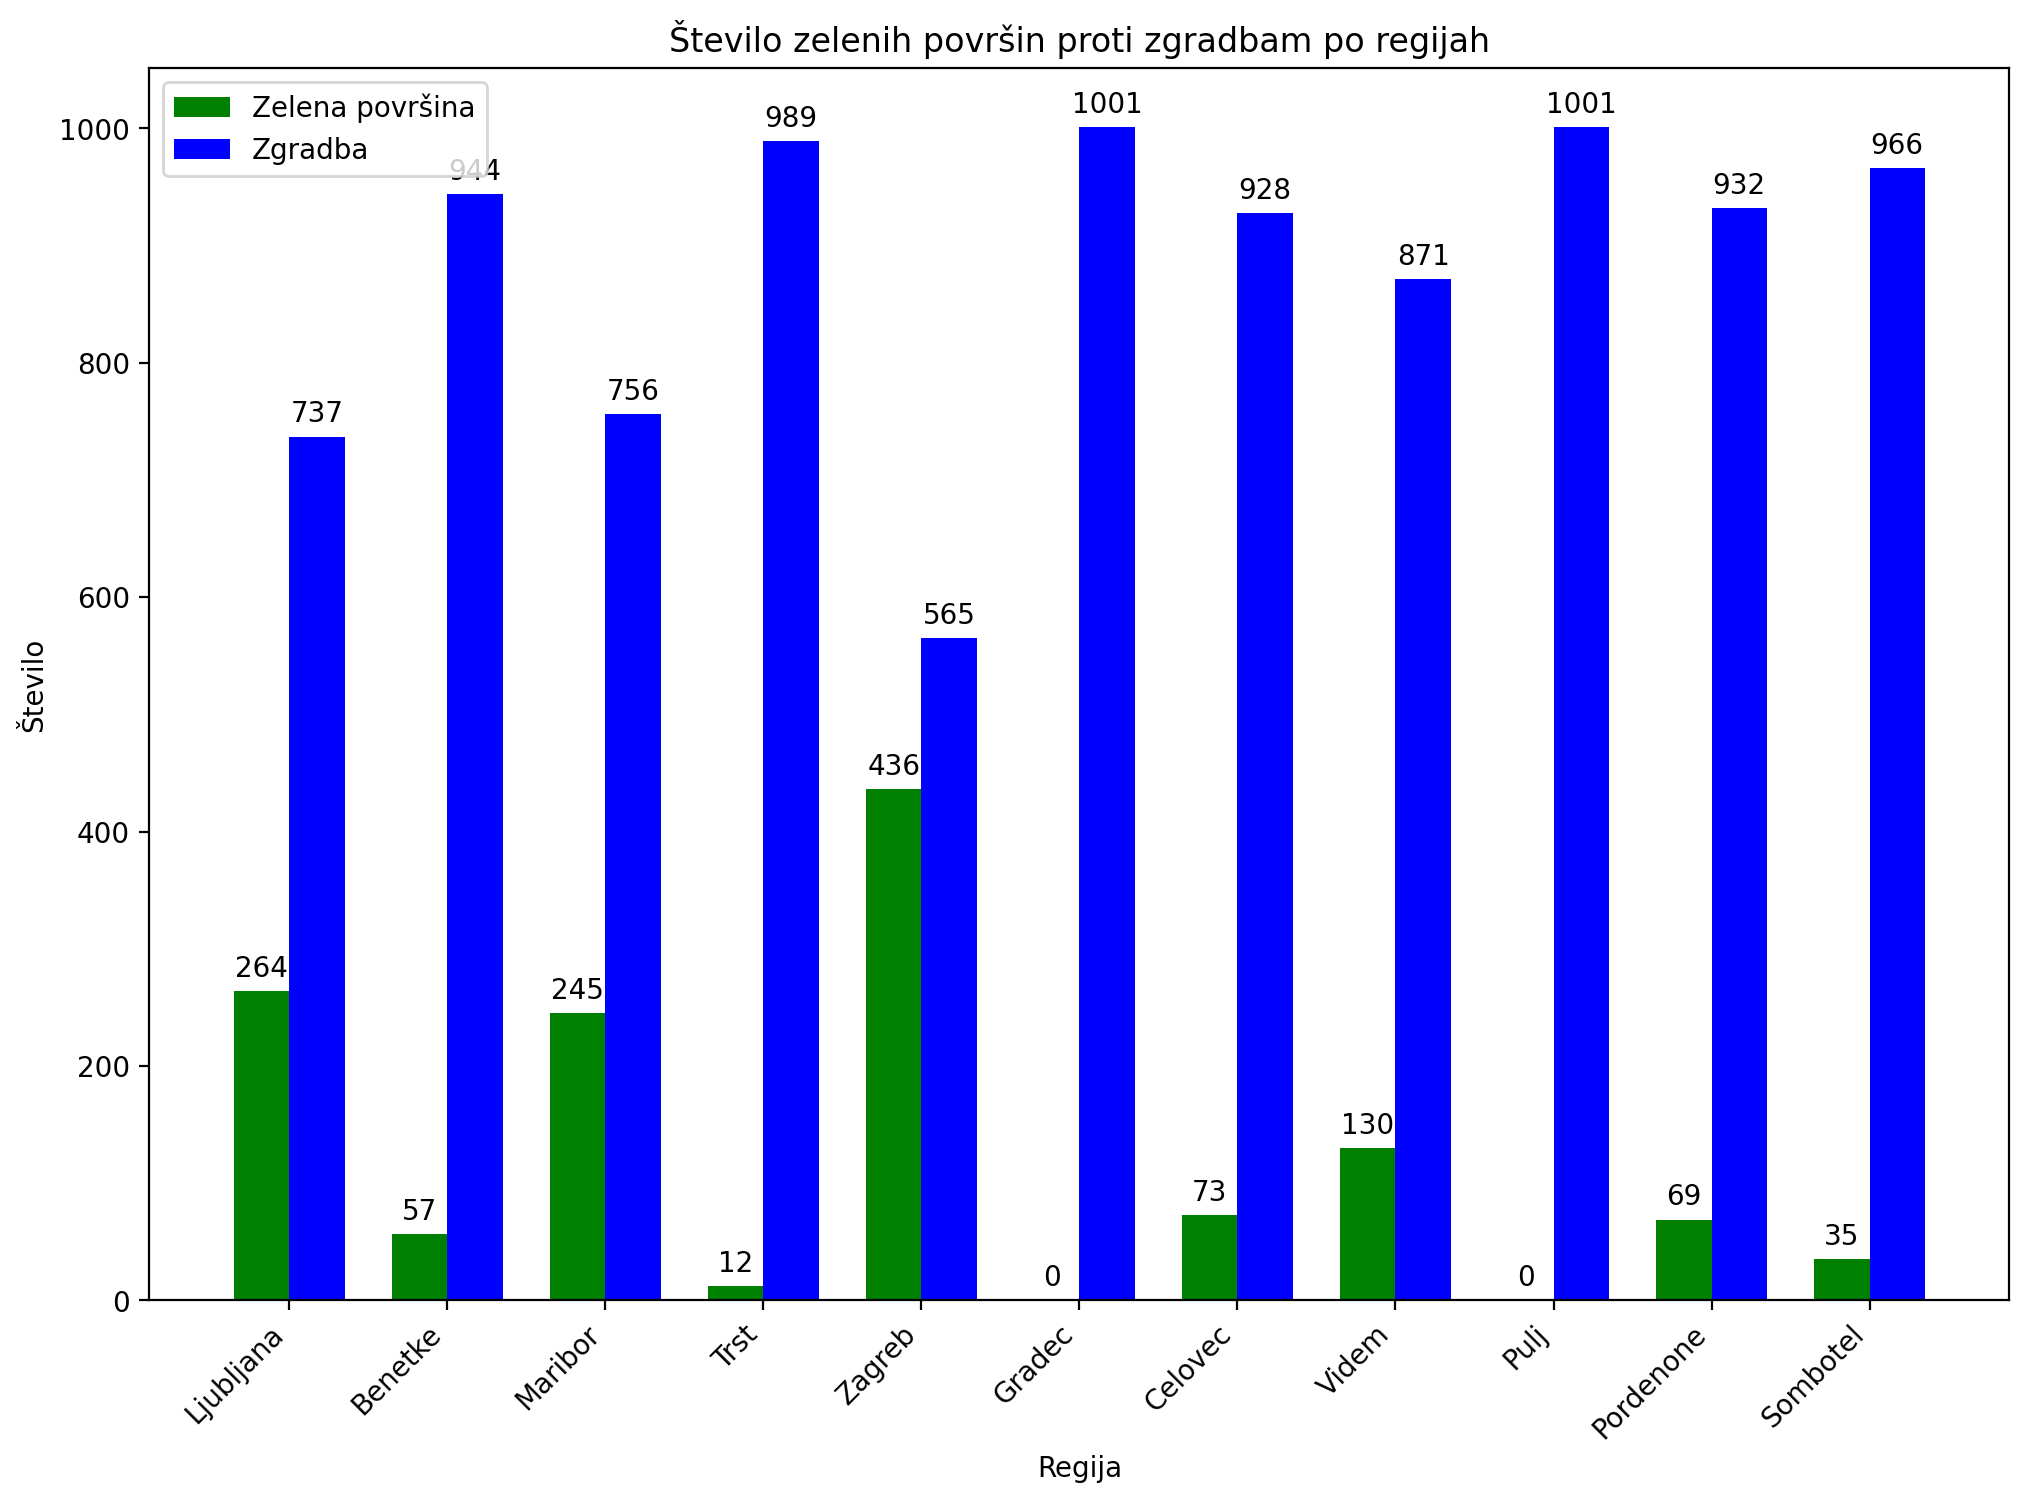
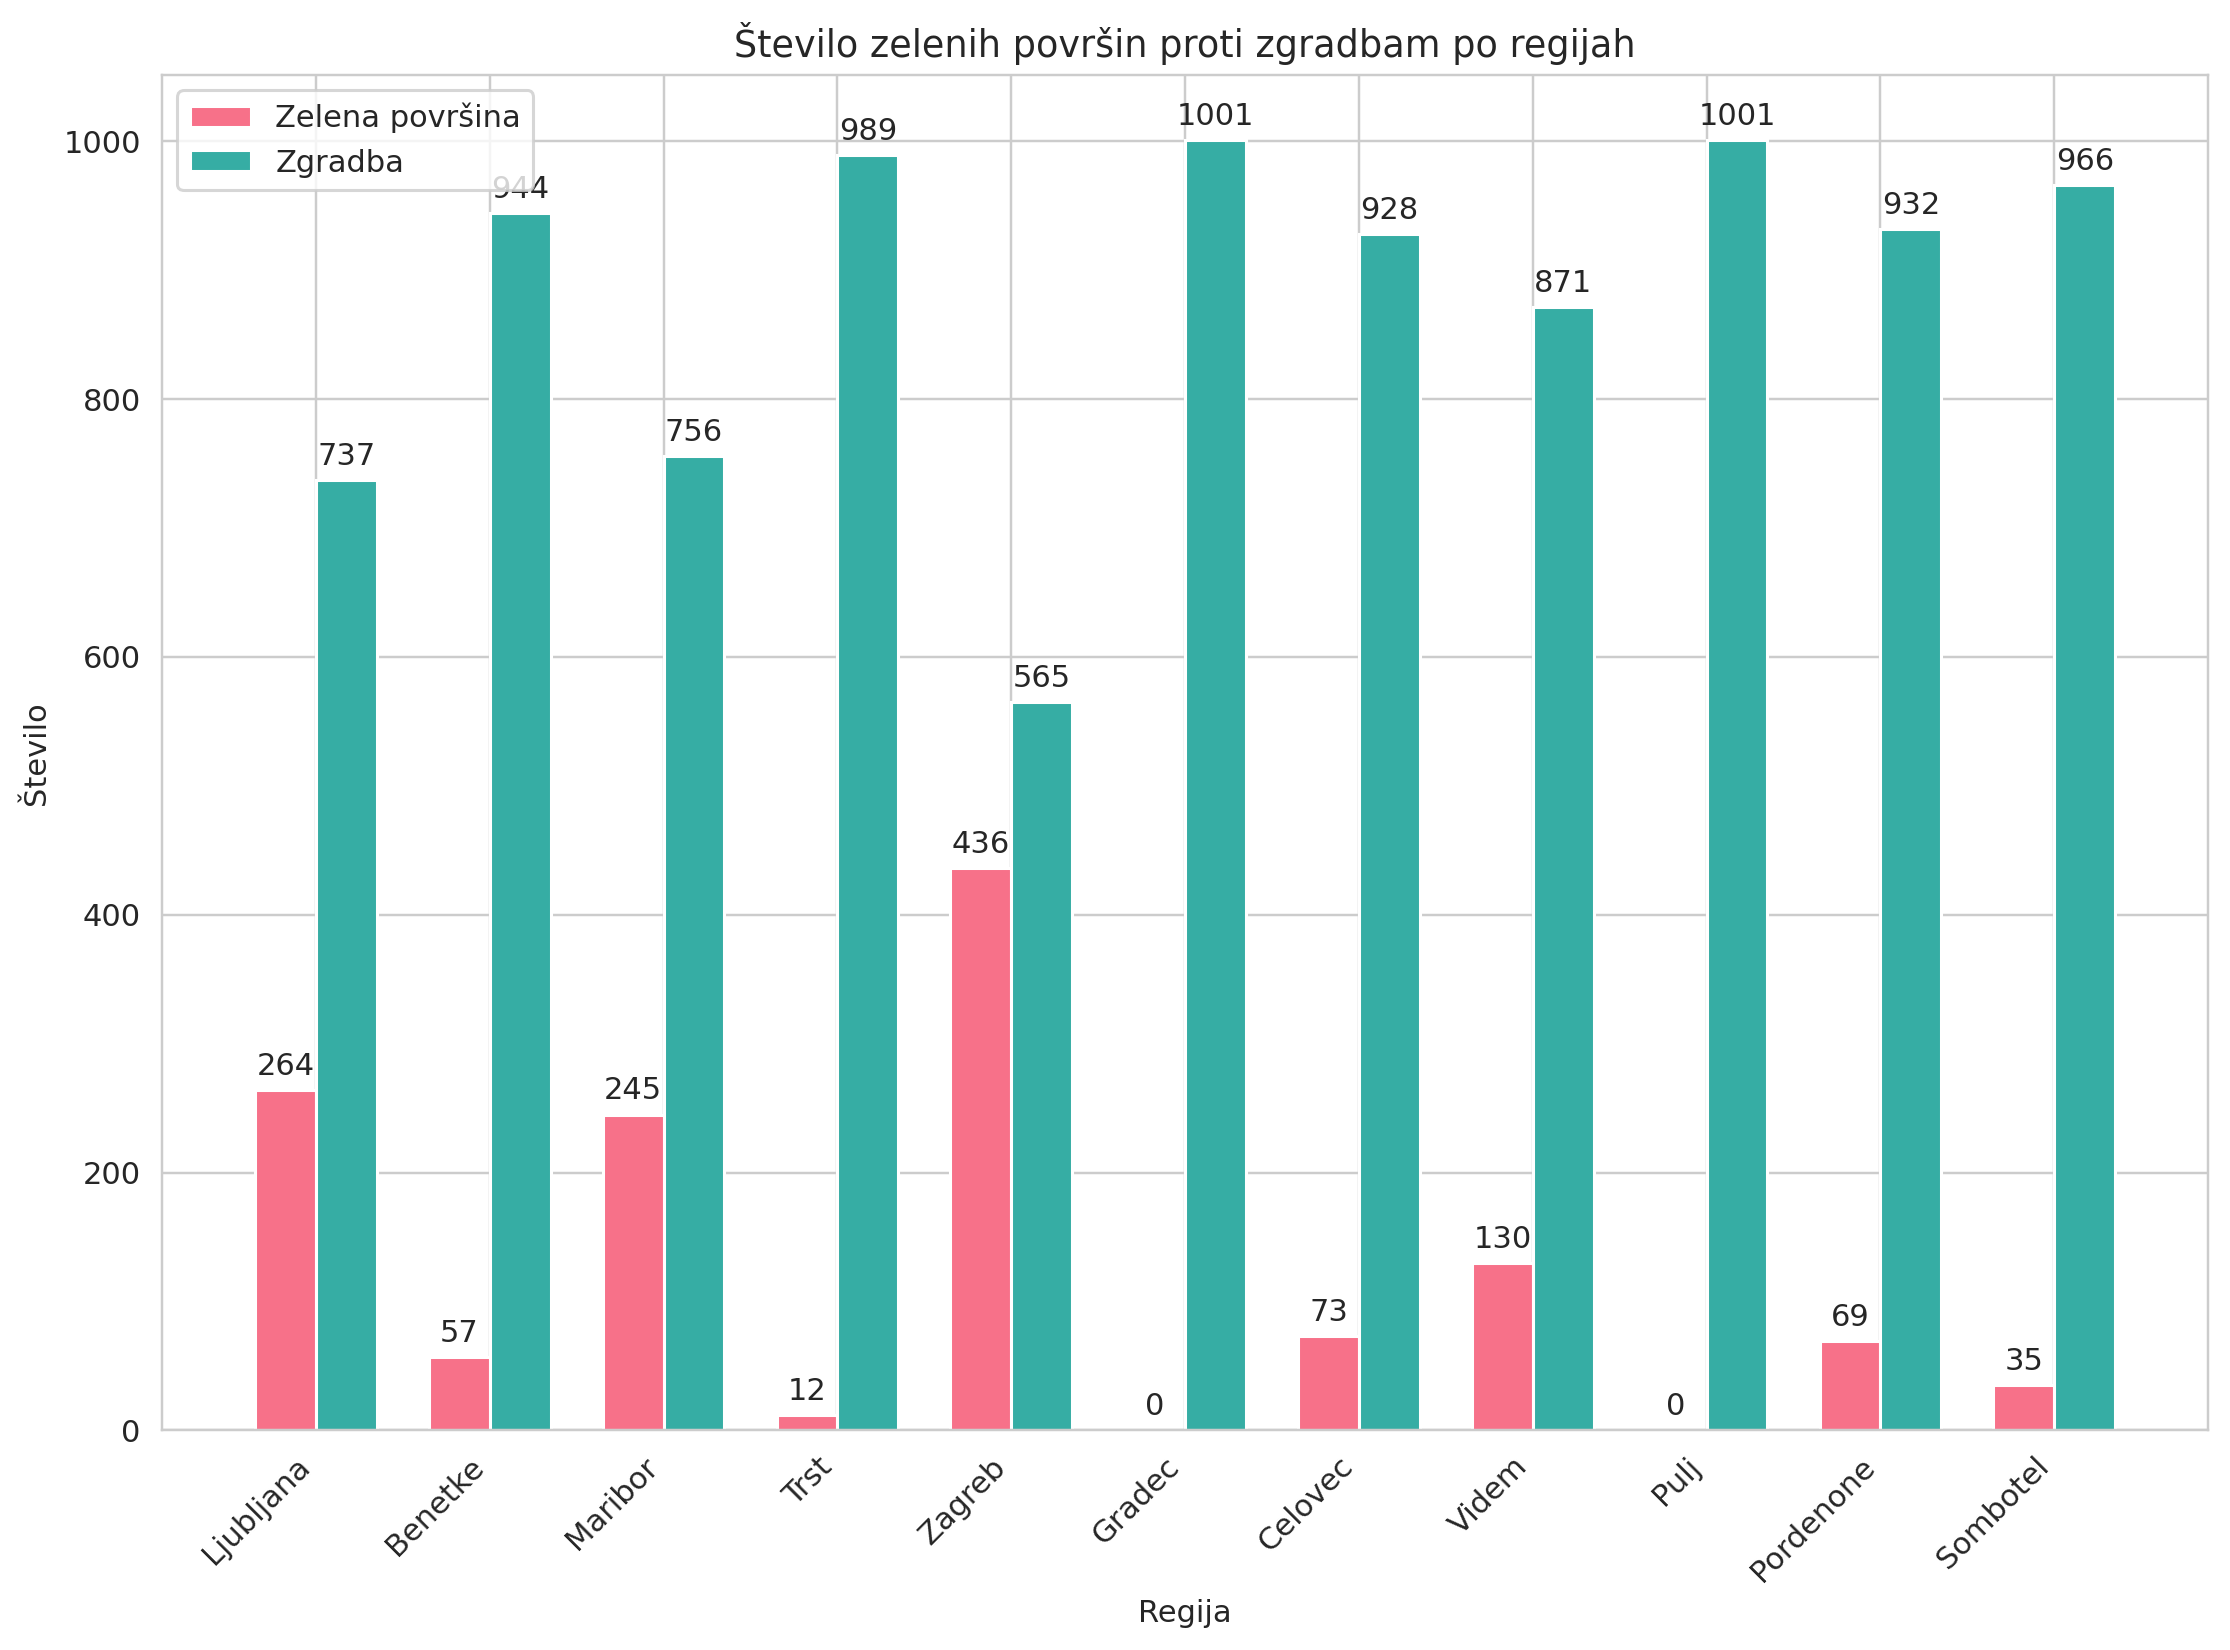
Update regions plot to include nicer colors

diff --git a/utils/plot_regions.py b/utils/plot_regions.py
@@ -2,6 +2,7 @@
 
 import json
 import matplotlib.pyplot as plt
+import seaborn as sns
 
 # English to Slovene City Name Dictionary
 city_translations = {
@@ -21,7 +22,6 @@ city_translations = {
 
 def extract_and_translate_city(full_name, translations):
     city_name = full_name.split("_")[1]
-
     return translations.get(city_name, city_name)
 
 
@@ -48,14 +48,22 @@ def plot(data):
     bar_width = 0.35
     index = range(len(regions))
 
+    # Set Seaborn style
+    sns.set_style("whitegrid")
+
+    # Use Seaborn's color palette
+    colors = sns.color_palette("husl", 2)  # "husl" palette is vibrant and distinct
+
     fig, ax = plt.subplots(figsize=(12, 8))
-    bars1 = ax.bar(index, green_counts, bar_width, label="Zelena površina", color="g")
+    bars1 = ax.bar(
+        index, green_counts, bar_width, label="Zelena površina", color=colors[0]
+    )
     bars2 = ax.bar(
         [i + bar_width for i in index],
         building_counts,
         bar_width,
         label="Zgradba",
-        color="b",
+        color=colors[1],
     )
 
     # Add counts on top of the bars
@@ -69,7 +77,7 @@ def plot(data):
     ax.set_xticklabels(regions, rotation=45, ha="right")
     ax.legend()
 
-    plt.savefig("./res/region_structures.png", bbox_inches="tight", dpi=200)
+    plt.savefig("./res/region_structures.png", bbox_inches="tight", dpi=220)
 
 
 if __name__ == "__main__":
